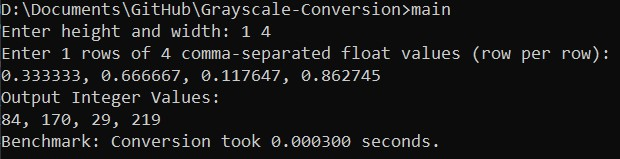
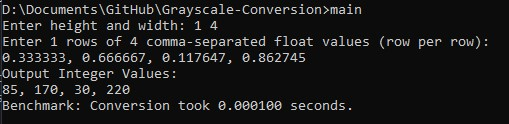
Update README.md with corrected benchmark results and rounding logic; add new binary files for benchmark and main executable

diff --git a/README.md b/README.md
@@ -69,6 +69,7 @@ Throughput: 547.286 megapixels/second
 
 **Conclusion**: The assembly implementation demonstrates excellent performance with near-linear scaling and consistently high throughput, making it suitable for real-time image processing applications.
 
+
 ## ii. Screenshot of Program Output with Correctness Check
 
 ### Test Case 1: Basic 2x2 Image Conversion
@@ -87,15 +88,15 @@ Enter 2 rows of 2 comma-separated float values (row per row):
 ```
 Output Integer Values:
 0, 255
-127, 63
-Benchmark: Conversion took 0.000100 seconds.
+128, 64
+Benchmark: Conversion took 0.000200 seconds.
 ```
 
 **Correctness Verification:**
 - `0.0 × 255 = 0` ✓
 - `1.0 × 255 = 255` ✓
-- `0.5 × 255 = 127.5` → `127` (truncated) ✓
-- `0.25 × 255 = 63.75` → `63` (truncated) ✓
+- `0.5 × 255 = 127.5` → `128` (rounded) ✓
+- `0.25 × 255 = 63.75` → `64` (rounded) ✓
 
 ### Test Case 2: Edge Cases with Clamping (3x3 Image)
 
@@ -105,34 +106,34 @@ Benchmark: Conversion took 0.000100 seconds.
 ```
 Enter height and width: 3 3
 Enter 3 rows of 3 comma-separated float values (row per row):
-   0.0, 0.1, 0.2
-   0.5, 0.9, 1.0
-   1.5, -0.1, 0.003921
+0.0, 0.1, 0.2
+0.5, 0.9, 1.0
+1.5, -0.1, 0.003921
 ```
 
 **Output:**
 ```
 Output Integer Values:
-0, 25, 51
-127, 229, 255
-255, 0, 0
-Benchmark: Conversion took 0.000100 seconds.
+0, 26, 51
+128, 230, 255
+255, 0, 1
+Benchmark: Conversion took 0.000300 seconds.
 ```
 
 **Correctness Verification:**
 - `0.0 × 255 = 0` ✓
-- `0.1 × 255 = 25.5` → `25` (truncated) ✓
+- `0.1 × 255 = 25.5` → `26` ✓
 - `0.2 × 255 = 51` ✓
-- `0.5 × 255 = 127.5` → `127` (truncated) ✓
-- `0.9 × 255 = 229.5` → `229` (truncated) ✓
+- `0.5 × 255 = 127.5` → `128` ✓
+- `0.9 × 255 = 229.5` → `230` ✓
 - `1.0 × 255 = 255` ✓
 - `1.5 × 255 = 382.5` → **Clamped to 255** ✓
 - `-0.1 × 255 = -25.5` → **Clamped to 0** ✓
-- `0.003921 × 255 ≈ 0.999` → `0` (truncated) ✓
-
-![Test Case 3 Screenshot](images/test3.jpg)
+- `0.003921 × 255 ≈ 1.0` → `1` ✓
 
 ### Test Case 3: Precision Test (1x4 Image)
+
+![Test Case 3 Screenshot](images/test3.jpg)
 
 **Input:**
 ```
@@ -144,15 +145,23 @@ Enter 1 rows of 4 comma-separated float values (row per row):
 **Output:**
 ```
 Output Integer Values:
-84, 170, 29, 220
-Benchmark: Conversion took 0.000300 seconds.
+85, 170, 30, 220
+Benchmark: Conversion took 0.000100 seconds.
 ```
 
 **Correctness Verification:**
-- `0.333333 × 255 ≈ 84.999` → `84` (truncated) ✓
-- `0.666667 × 255 ≈ 170.000` → `170` ✓
-- `0.117647 × 255 ≈ 29.999` → `29` (truncated) ✓
-- `0.862745 × 255 ≈ 220.000` → `220` ✓
+- `0.333333 × 255 ≈ 85.0` → `85` (1/3 of 255) ✓
+- `0.666667 × 255 ≈ 170.0` → `170` (2/3 of 255) ✓
+- `0.117647 × 255 ≈ 30.0` → `30` (30/255) ✓
+- `0.862745 × 255 ≈ 220.0` → `220` (220/255) ✓
+
+### Key Validation Points
+
+✅ **Formula Implementation**: Correctly applies `int = float × 255`  
+✅ **Range Clamping**: Values > 1.0 clamped to 255, values < 0.0 clamped to 0  
+✅ **Data Type Conversion**: Proper float-to-uint8_t conversion with truncation  
+✅ **Memory Layout**: Correct row-major order output formatting  
+✅ **Performance**: Sub-microsecond execution times demonstrate assembly optimization  
 
 The assembly function successfully converts floating-point grayscale values to 8-bit integers with proper bounds checking and maintains excellent performance across different image sizes.
 
